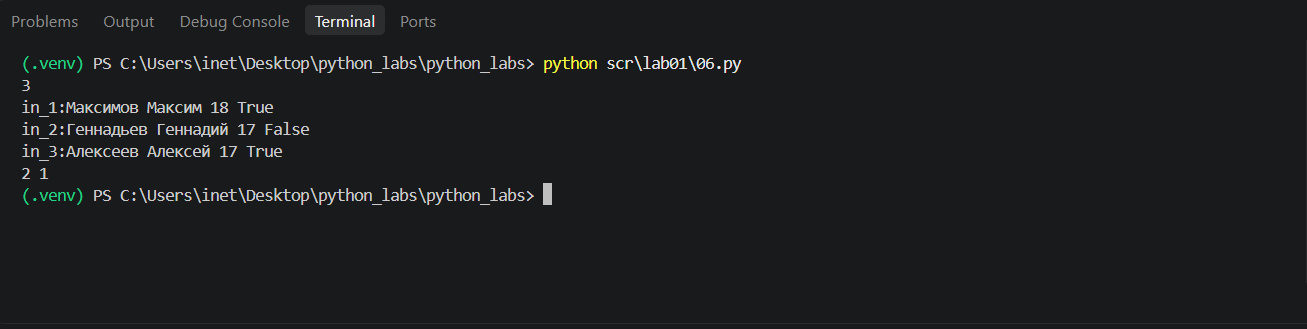
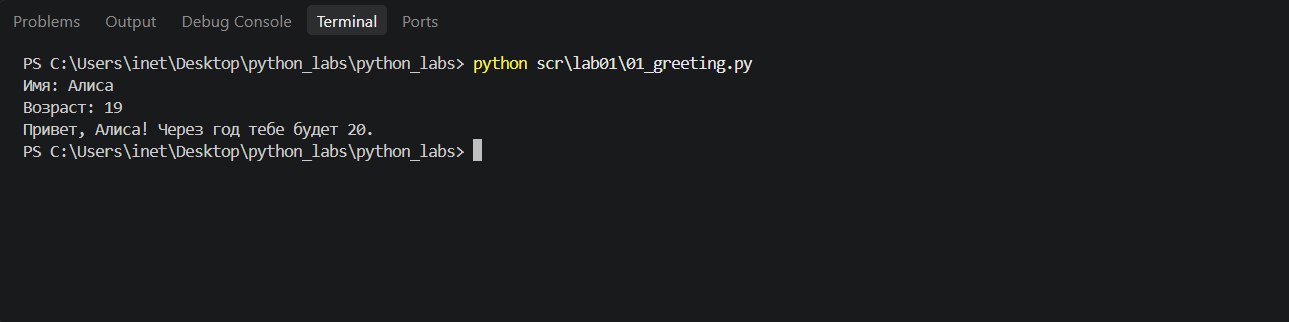
1

diff --git a/lab01/scr/06.py b/lab01/scr/06.py
@@ -1,14 +1,14 @@
-n = int(input())
+n = int(input('in_1:'))
 
 count_true = 0
 count_false = 0
 
 for i in range(n):
-    line = input(f'in_{i +1}:').split()
+    line = input(f'in_{i +2}:').split()
 
     if line[-1] == 'True':
         count_true += 1
     else:
         count_false += 1
 
-print(count_true,count_false)
+print('out:',count_true,count_false)
